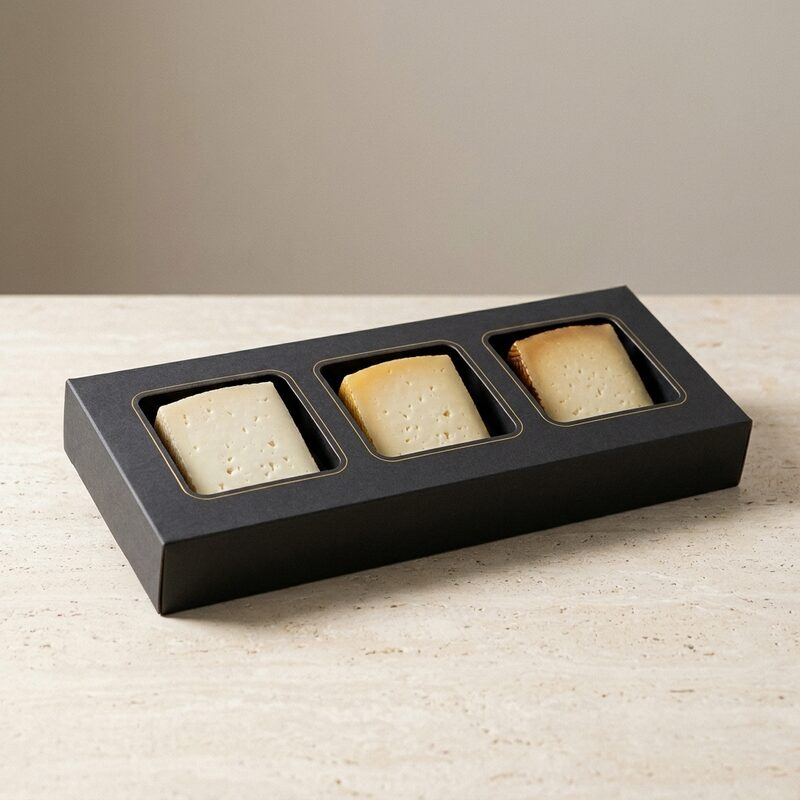
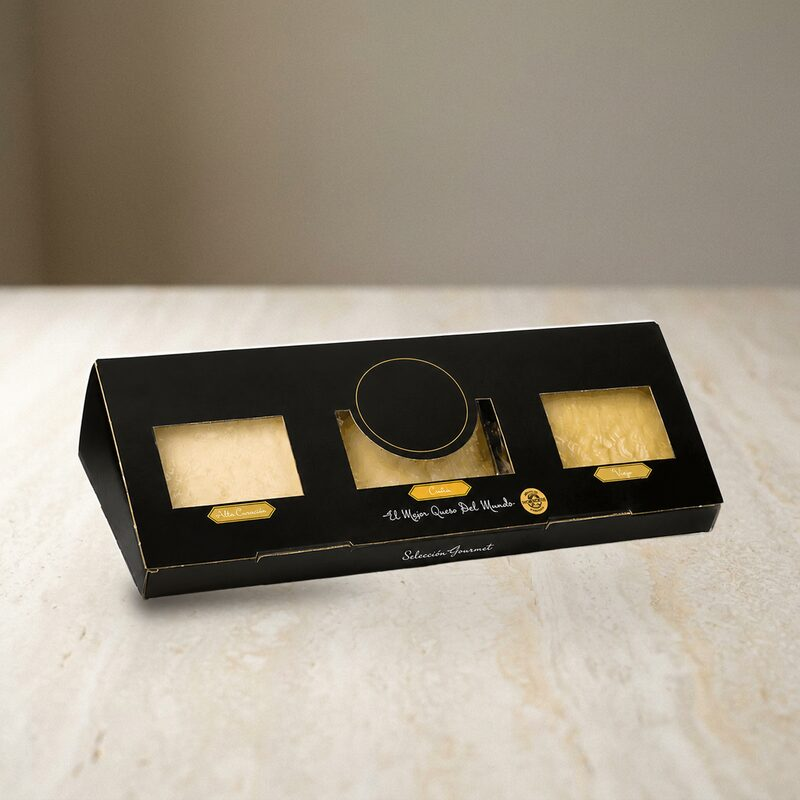
Infusiones como galería, y el estuche real posado en la mesa
Infusiones no tiene catálogo de referencias: tiene una selección que cambia.
Así que una categoría puede llevar ahora `galeria` e `intro`, y la página elige
sola entre tres caminos: rejilla de fichas si hay tarifa, galería si no la hay
pero sí algo que enseñar, y "en preparación" si no hay ninguna de las dos. Seis
fotos del cliente recortadas a 4:5 y un párrafo corto, en los siete idiomas.
De las nueve que mandó se quedan fuera tres: una con cartelería ajena en
alemán, otra con muestras sobre una mesa muy sucia de fondo y una del estand
con gente.

Efecto secundario buscado: la tarjeta de infusiones deja de estar apagada en el
catálogo, ya lleva a su página, y la categoría entra en la parrilla de la
portada, porque ya tiene algo que enseñar.

Y un fallo de CSS que salió por el camino: el filete dorado no se abría al
pasar por encima de las fotos de la galería. La regla pedía que `grabado` fuera
descendiente de `grupo`, y ahí las dos clases caen en el mismo elemento. Añadida
la variante sin espacio, que es lo que `.tarjeta:hover.grabado` ya hacía.

El estuche de quesos deja de estar generado: es la foto real del envase que
mandó el cliente, ya sin el nombre del fabricante, recortada del fondo blanco y
compuesta sobre la mesa de travertino. La rueda y la cuña se quedan como
estaban, que es lo que él prefiere.

Posar un recorte cuesta más de lo que parece y quedan tres cosas aprendidas:
el fondo tiene que estar tomado desde la misma altura que el objeto —una caja
[…]

diff --git a/app/[lang]/products/[slug]/page.tsx b/app/[lang]/products/[slug]/page.tsx
@@ -171,7 +171,41 @@ export default async function Categoria({
         </div>
       </section>
 
-      {cat.total === 0 ? (
+      {/* Tres caminos: la rejilla de fichas cuando hay tarifa; una galería
+          cuando no la hay pero sí algo que enseñar —las infusiones no son un
+          catálogo de referencias, son una selección que cambia—; y el aviso de
+          "en preparación" cuando no hay ni una cosa ni la otra. */}
+      {cat.galeria?.length ? (
+        <section className="mx-auto w-full max-w-6xl px-6 py-14 sm:py-16">
+          {cat.intro?.[l] && (
+            <p className="max-w-2xl text-lg text-tinta-2 text-pretty">{cat.intro[l]}</p>
+          )}
+          {/* Cada foto lleva `grupo` y `group`: el primero abre el filete
+              dorado y el segundo escala la imagen. Es el mismo gesto que hacen
+              las tarjetas de categoría, y sin él esta sección era la única de
+              la web que no respondía al cursor. */}
+          <ul className="mt-10 grid grid-cols-2 gap-5 sm:gap-6 lg:grid-cols-3">
+            {cat.galeria.map((foto, i) => (
+              <li
+                key={foto}
+                className="grupo group grabado relative aspect-[4/5] overflow-hidden rounded-sm bg-crema"
+              >
+                {/* `alt` vacío: son fotos de ambiente de la sección, no
+                    ilustran cada una un artículo que se pueda nombrar. Lo que
+                    hay que leer lo dice el párrafo de arriba. */}
+                <Image
+                  src={foto}
+                  alt=""
+                  fill
+                  sizes="(max-width: 640px) 50vw, 33vw"
+                  loading={i < 3 ? undefined : "lazy"}
+                  className="object-cover transition-transform duration-500 ease-[var(--ease-salida)] group-hover:scale-105"
+                />
+              </li>
+            ))}
+          </ul>
+        </section>
+      ) : cat.total === 0 ? (
         <section className="mx-auto w-full max-w-3xl px-6 py-20 text-center sm:py-24">
           <p className="etiqueta">{t.enPreparacion}</p>
           <p className="mt-4 text-lg text-tinta-2 text-pretty">{t.enPreparacionNota}</p>

diff --git a/lib/contenido.ts b/lib/contenido.ts
@@ -129,16 +129,26 @@ export type Categoria = {
   nombre: Record<Idioma, string>;
   total: number;
   subcategorias?: Subcategoria[];
+  /** Una categoría sin tarifa que aun así tiene algo que enseñar. En vez de la
+   *  rejilla de fichas pinta estas fotos y el texto de `intro`: es el caso de
+   *  las infusiones, donde no hay catálogo de referencias sino una selección
+   *  que cambia. Sin galería y sin tarifa, la categoría sale "en preparación"
+   *  como hasta ahora. */
+  galeria?: string[];
+  intro?: Record<Idioma, string>;
 };
 
 export const CATEGORIAS = catalogo.categorias as Categoria[];
 export const PRODUCTOS = catalogo.productos as Producto[];
 export const GRUPOS = catalogo.grupos as Grupo[];
 
-/** Las que ya tienen referencias. Las demás se publican igual, pero con un
- *  aviso en vez de una rejilla vacía: el cliente quiere que se vea el alcance
- *  de la oferta aunque aún no haya mandado las tarifas. */
-export const CATEGORIAS_CON_PRODUCTO = CATEGORIAS.filter((c) => c.total > 0);
+/** Las que tienen algo que enseñar: referencias o, sin ellas, una galería. Las
+ *  demás se publican igual, pero con un aviso en vez de una rejilla vacía: el
+ *  cliente quiere que se vea el alcance de la oferta aunque aún no haya
+ *  mandado las tarifas. */
+export const CATEGORIAS_CON_PRODUCTO = CATEGORIAS.filter(
+  (c) => c.total > 0 || c.galeria?.length,
+);
 
 export function categoria(slug: string): Categoria | undefined {
   return CATEGORIAS.find((c) => c.slug === slug);

diff --git a/app/[lang]/products/page.tsx b/app/[lang]/products/page.tsx
@@ -41,7 +41,9 @@ export default async function Catalogo({
       <section className="mx-auto w-full max-w-6xl px-6 py-16 sm:py-20">
         <ul className="grid gap-6 sm:grid-cols-2 lg:grid-cols-3">
           {CATEGORIAS.map((c) => {
-            const vacia = c.total === 0;
+            // Con galería hay algo que ver aunque no haya tarifa, así que la
+            // tarjeta ni se apaga ni deja de llevar a su página.
+            const vacia = c.total === 0 && !c.galeria?.length;
             const foto = AMBIENTE[c.slug];
             const Contenido = (
               <>

diff --git a/app/globals.css b/app/globals.css
@@ -476,7 +476,11 @@ body::after {
 /* Al pasar por encima el filete se abre hacia el canto, igual que en la placa
    de los botones: es el mismo gesto en toda la web. */
 .tarjeta:hover.grabado::after,
-.grupo:hover .grabado::after {
+.grupo:hover .grabado::after,
+/* Y cuando `grupo` y `grabado` caen en el mismo elemento, que es el caso de
+   las fotos de la galería: sin esta variante el selector de arriba pide que
+   `grabado` sea descendiente y no encaja con nada. */
+.grupo:hover.grabado::after {
   inset: 3px;
   opacity: 0.5;
 }
